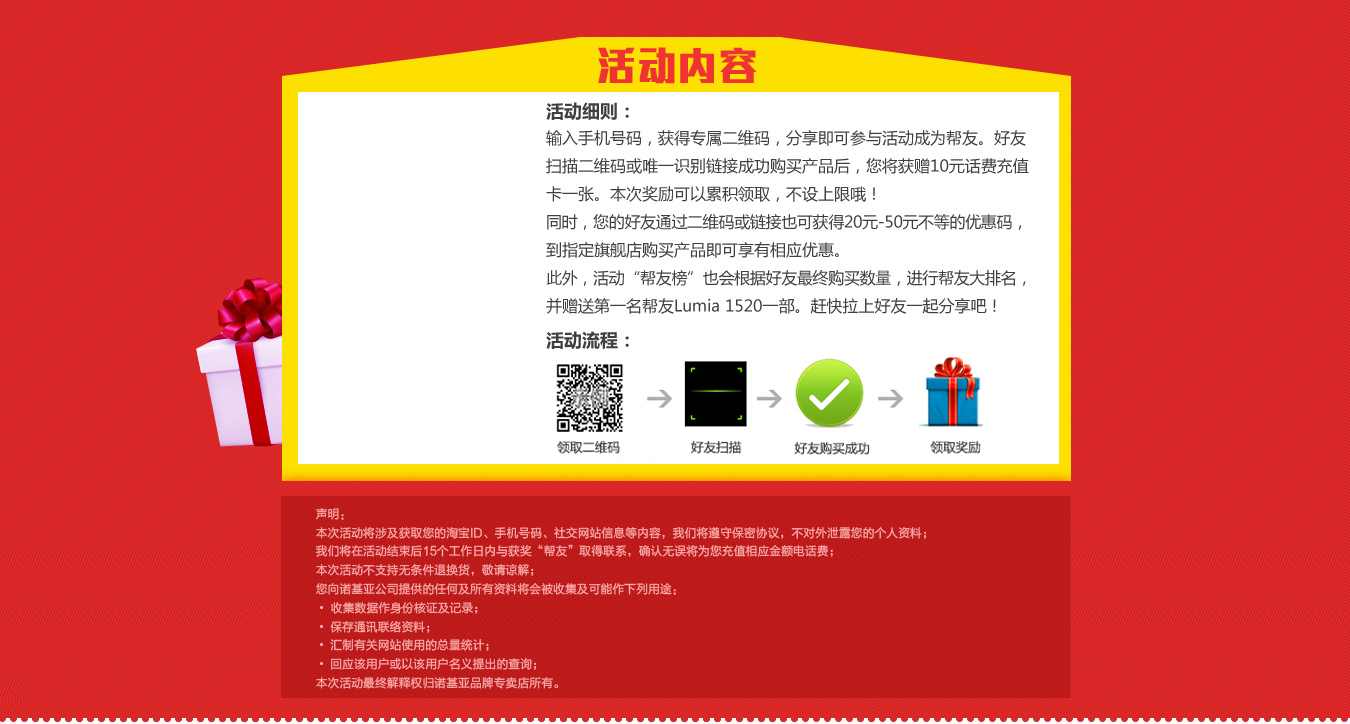
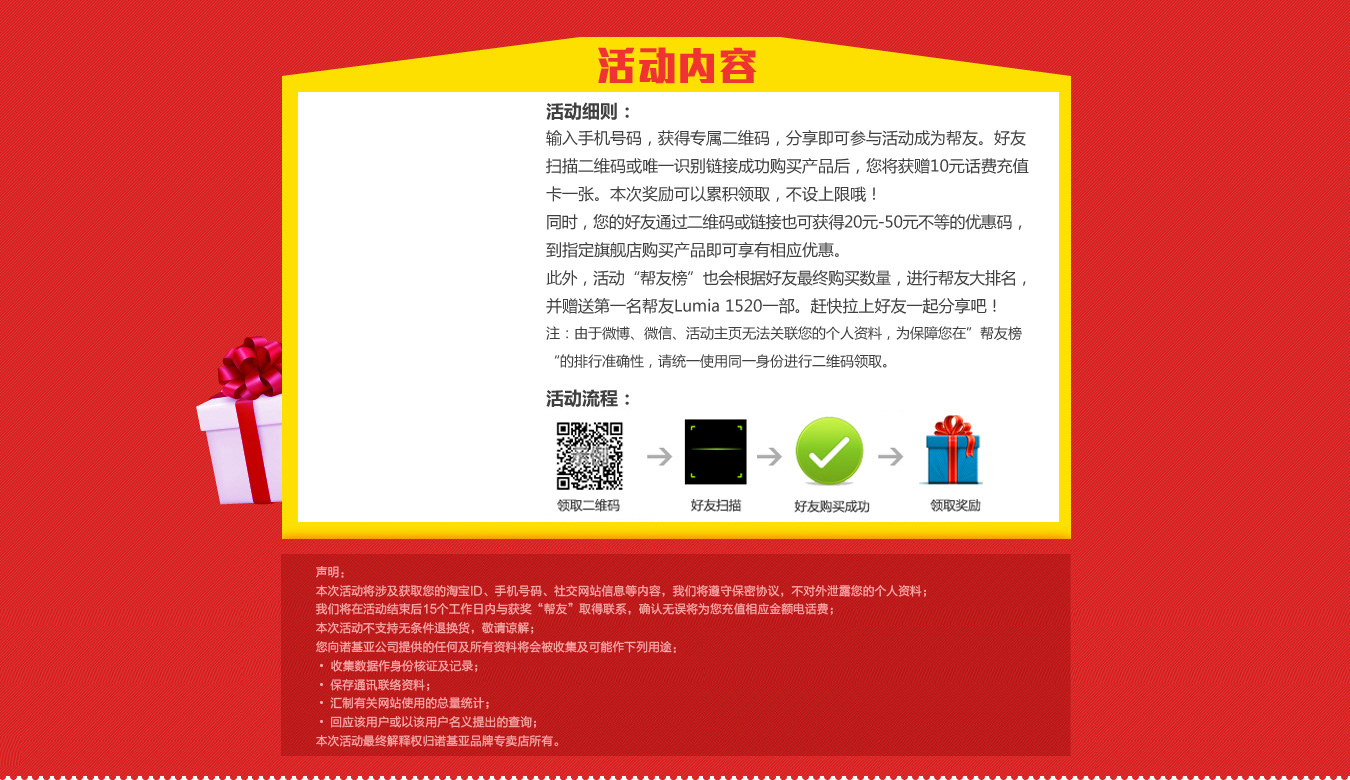
444444

diff --git a/Public/index/css/style.css b/Public/index/css/style.css
@@ -29,7 +29,7 @@ a:active{noOutline:expression(this.onFocus=this.blur());}
 .header{ width:100%; height:417px; background:url(../images/top.jpg) center top no-repeat;}
 	.headcon{ width:990px; margin:0 auto;}
 		a.logo{ width:135px; height:40px; margin:20px 40px 0 0; float:right; display:inline-block;}
-.hdnr{ width:100%; height:723px; background:url(../images/hdnr.jpg) center no-repeat;}
+.hdnr{ width:100%; height:780px; background:url(../images/hdnr.jpg) center no-repeat;}
 	.hdnrcon{ width:990px; margin:0 auto;}
 		.hdnrconleft{ float:left; width:200px; height:325px; margin:123px 0 0 139px;}
 		.hdnrconleft div.imgbox{ width:175px; height:175px; margin:0 auto 10px;}

diff --git a/Public/wechat/css/common.css b/Public/wechat/css/common.css
@@ -36,7 +36,7 @@ html{-webkit-text-size-adjust:none;}/*chrome font-size<12px */
 	.top,.hdnr,.byb,.zxjx,.shengming,.product{width:100%; max-width:640px; margin:0 auto;}
 	.top img,.hdnr img,.byb img,.zxjx img,.shengming img{ width:100%;  vertical-align:bottom;}
 	.hdnr{ position:relative}
-	.hdnr .btn_lq{ position:absolute; top:21.5%; left:31%; width:38%; margin:0 auto; text-align:center;}
+	.hdnr .btn_lq{ position:absolute; top:19%; left:31%; width:38%; margin:0 auto; text-align:center;}
 	.hdnr .btn_lq a img{ border:0; width:100%;}
 	.hdnr .btn_lq a:hover img{opacity:0.8;filter:alpha(opacity=80);}
 	.byb{ position:relative}
